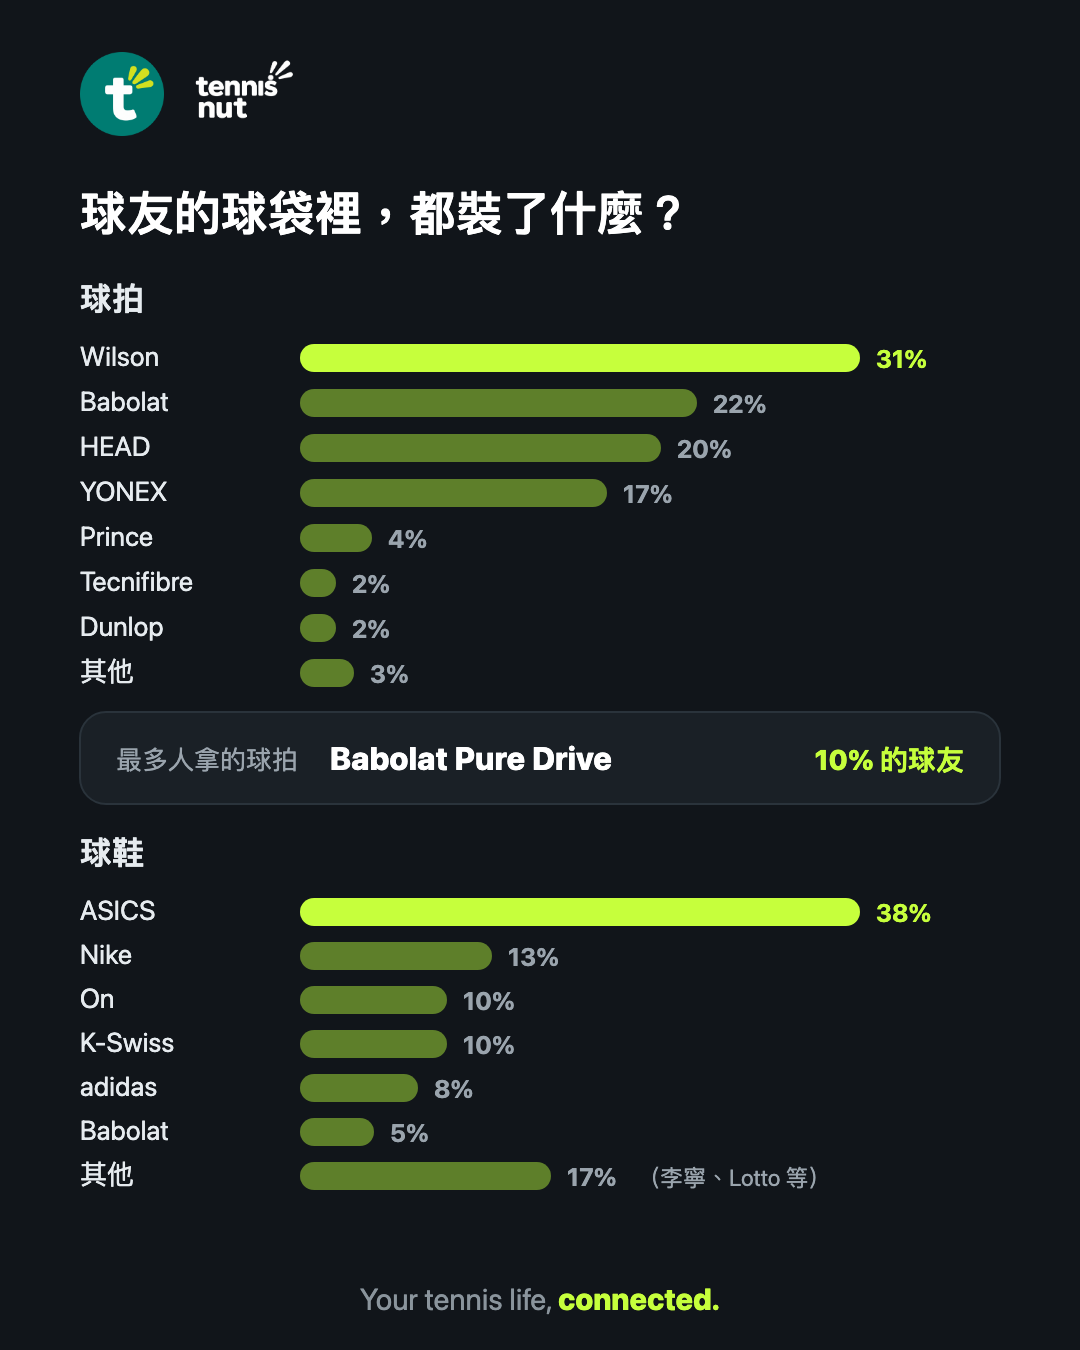
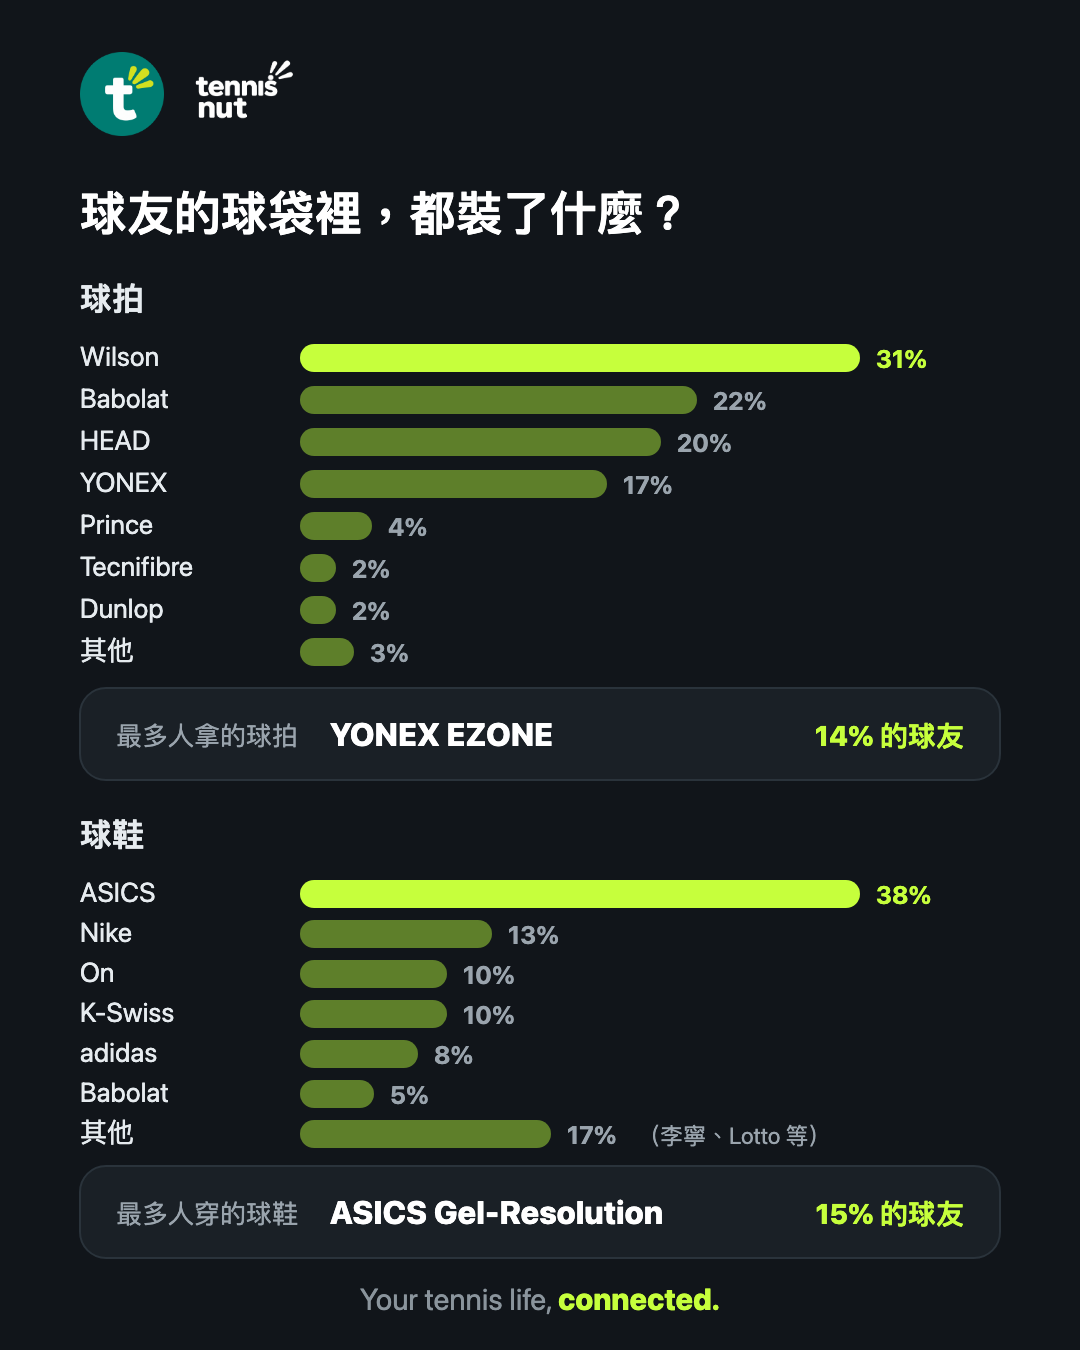
cards-ig-1010: 加「最多人穿的球鞋」；最多人拿的球拍改以系列計（YONEX EZONE，原本 Pure Drive 是因為 EZONE 被拆成三種寫法）

Changed region(s): [[0.0611, 0.28, 0.8861, 0.9333], [0.275, 0.28, 0.7028, 0.5911], [0.7333, 0.5289, 0.8861, 0.5911]]

diff --git a/cards-ig-1010/build_gear.py b/cards-ig-1010/build_gear.py
@@ -4,8 +4,11 @@ T=DARK
 RACKETS=[('Wilson',41),('Babolat',29),('HEAD',26),('YONEX',23),('Prince',5),('Tecnifibre',3),('Dunlop',2)]
 SHOES=[('ASICS',24),('Nike',8),('On',6),('K-Swiss',6),('adidas',5),('Babolat',3)]
 NR,NS=133,63
-# 最多人拿的球拍：依人數算（同一人兩支只算一次），分母是有登錄球拍的 94 人。
-TOP=('Babolat Pure Drive',9); HOLDERS=94
+# 最多人拿／穿的：以「系列」為單位（不分代數、不分 98/100），依人數算（同一人兩支只算一次）。
+# 型號是自由文字，寫法很亂（EZONE / Ezone 98 / EZONE 100；Gel Resolution X / Rx / RX美網），
+# 不合併的話會被拆成好幾個小的。分母是有登錄球拍 94 人、有登錄球鞋 52 人。
+TOP_RACKET=('YONEX EZONE',13,94)
+TOP_SHOE=('ASICS Gel-Resolution',8,52)
 
 def pct(rows,total):
     """佔全部的百分比，一般四捨五入：數量相同的就顯示相同的百分比，加總可能差 1%。
@@ -25,13 +28,15 @@ def bars(y,title,rows,rowh,other_note=None):
         if name=='其他' and other_note:
             out.append(f'<text x="{300+w+16+len(str(n))*15+40}" y="{yy+32}" font-size="23" fill="{T["sub"]}">（{other_note}）</text>')
     return out
-o+=bars(310,'球拍',RACKETS,45)
-y=712
-o.append(f'<rect x="80" y="{y}" width="920" height="92" rx="26" fill="{T["panel"]}" stroke="{T["edge"]}" stroke-width="2"/>')
-o.append(f'<text x="116" y="{y+57}" font-size="26" fill="{T["sub"]}">最多人拿的球拍</text>')
-o.append(f'<text x="330" y="{y+58}" font-size="32" font-weight="800" fill="{T["title"]}">{TOP[0]}</text>')
-o.append(f'<text x="964" y="{y+58}" font-size="28" font-weight="800" fill="{T["accent"]}" text-anchor="end">{int(TOP[1]*100/HOLDERS+0.5)}% 的球友</text>')
-# 「其他」裡填在型號欄的品牌（brand=other）：李寧、Lotto、Artengo
-o+=bars(864,'球鞋',SHOES,44,other_note='李寧、Lotto 等')
+o+=bars(310,'球拍',RACKETS,42)
+def top_panel(y,label,top):
+    name,n,d=top
+    return [f'<rect x="80" y="{y}" width="920" height="92" rx="26" fill="{T["panel"]}" stroke="{T["edge"]}" stroke-width="2"/>',
+      f'<text x="116" y="{y+57}" font-size="26" fill="{T["sub"]}">{label}</text>',
+      f'<text x="330" y="{y+58}" font-size="32" font-weight="800" fill="{T["title"]}">{name}</text>',
+      f'<text x="964" y="{y+58}" font-size="28" font-weight="800" fill="{T["accent"]}" text-anchor="end">{int(n*100/d+0.5)}% 的球友</text>']
+o+=top_panel(688,'最多人拿的球拍',TOP_RACKET)
+o+=bars(846,'球鞋',SHOES,40,other_note='李寧、Lotto 等')
+o+=top_panel(1166,'最多人穿的球鞋',TOP_SHOE)
 o+=foot()
 open(os.path.join(HERE,'gear-bag.svg'),'w').write('\n'.join(o))
